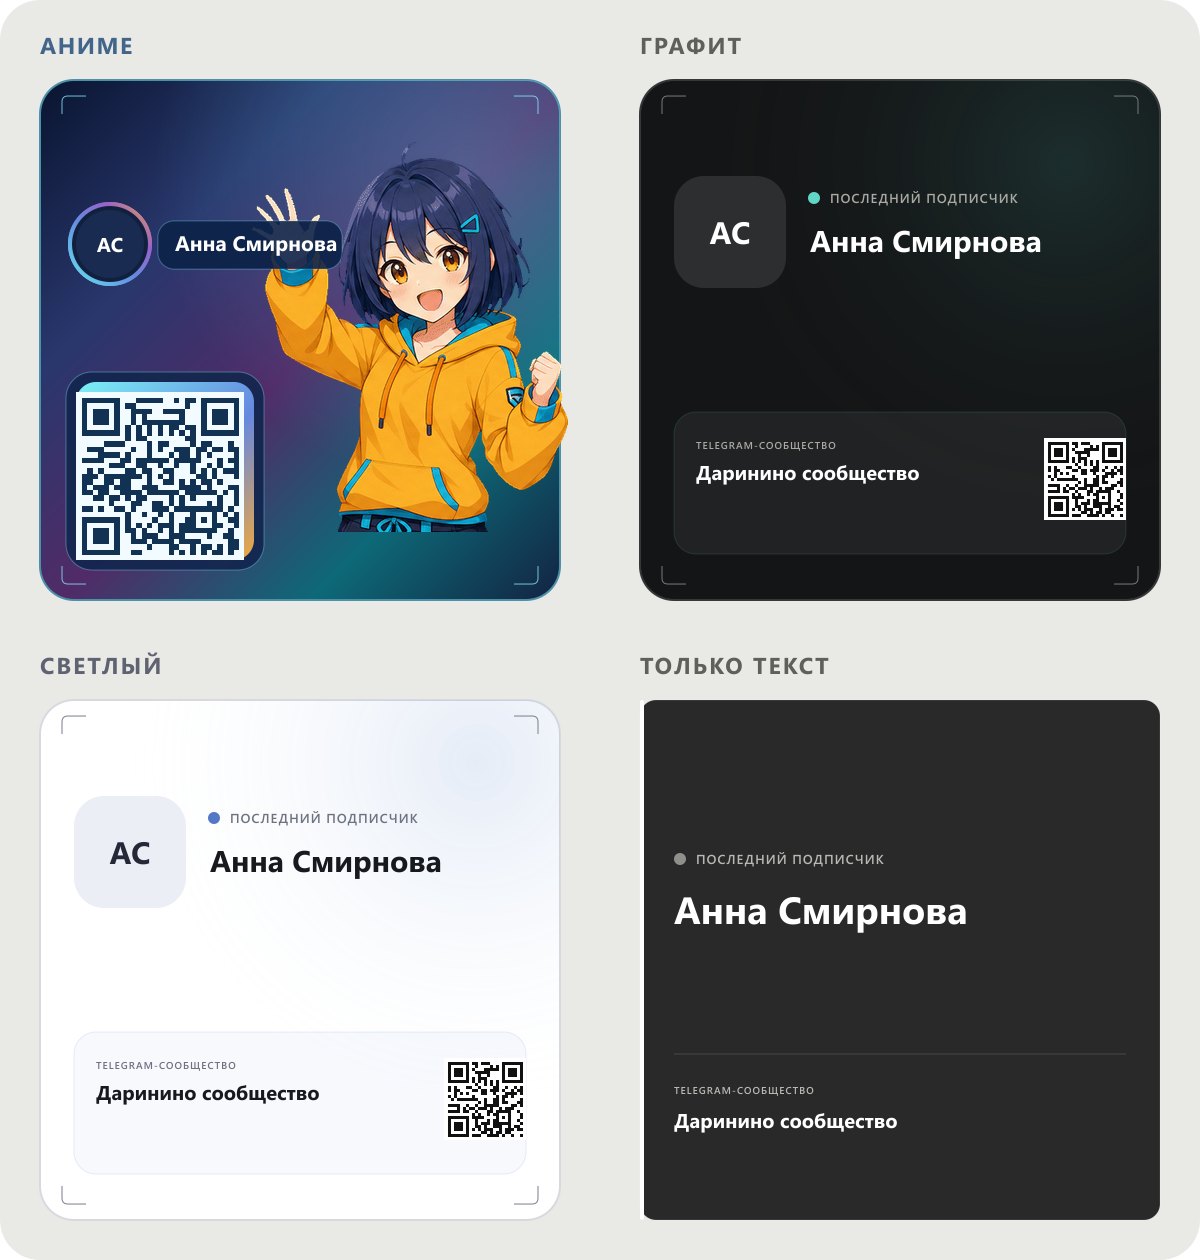
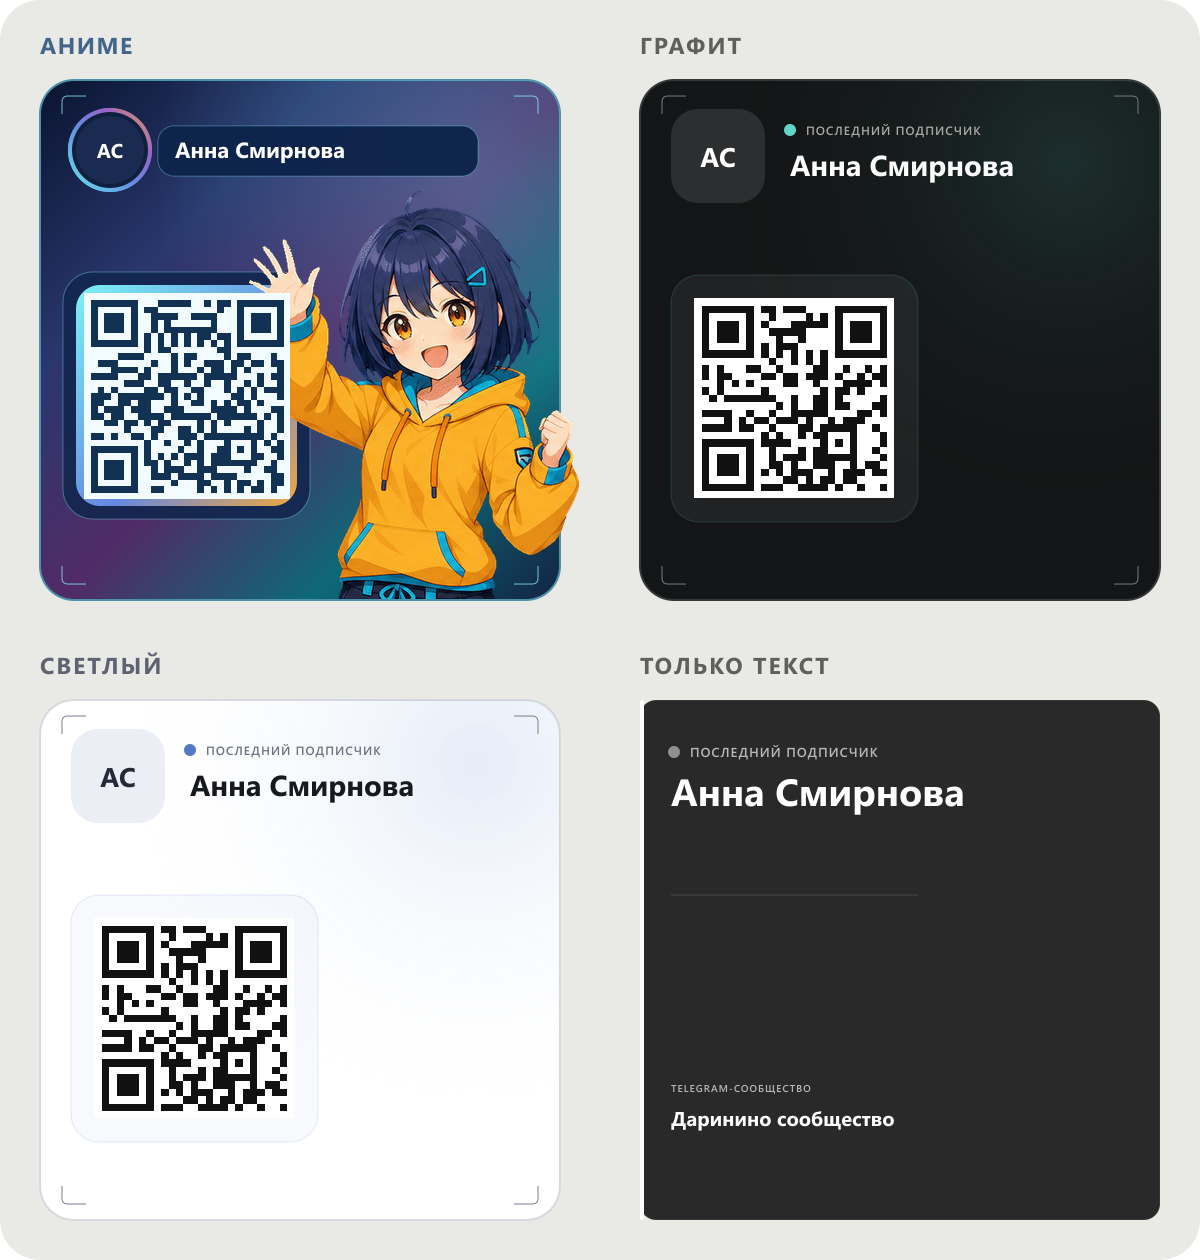
Rebalance overlay layout for OBS

diff --git a/app/globals.css b/app/globals.css
@@ -464,12 +464,10 @@ a { -webkit-tap-highlight-color: transparent; }
 
 .subscriber-card {
   position: relative;
-  display: grid;
+  display: block;
   aspect-ratio: 1;
-  grid-template-rows: minmax(0, 1fr) auto;
-  gap: 18px;
   overflow: hidden;
-  padding: 23px;
+  padding: 0;
   border: 1px solid var(--card-border);
   border-radius: 28px;
   background: var(--card-bg);
@@ -537,9 +535,13 @@ a { -webkit-tap-highlight-color: transparent; }
 }
 
 .subscriber-identity {
-  position: relative;
+  position: absolute;
   z-index: 2;
+  top: 22px;
+  left: 24px;
   display: grid;
+  width: calc(100% - 48px);
+  height: 88px;
   grid-template-columns: 88px minmax(0, 1fr);
   align-content: center;
   align-items: center;
@@ -660,16 +662,17 @@ a { -webkit-tap-highlight-color: transparent; }
 }
 
 .subscriber-name {
-  display: -webkit-box;
+  display: block;
   overflow: hidden;
   margin: 0;
   color: var(--card-ink);
-  font-size: clamp(24px, 7vw, 32px);
+  font-size: clamp(23px, 6.4vw, 29px);
   font-weight: 640;
   letter-spacing: -.035em;
   line-height: 1.02;
-  -webkit-box-orient: vertical;
-  -webkit-line-clamp: 2;
+  text-overflow: ellipsis;
+  white-space: nowrap;
+  -webkit-line-clamp: unset;
 }
 
 .subscriber-state {
@@ -678,10 +681,14 @@ a { -webkit-tap-highlight-color: transparent; }
 }
 
 .community-block {
-  position: relative;
+  position: absolute;
   z-index: 2;
+  top: 150px;
+  left: 24px;
   display: flex;
-  min-height: 98px;
+  box-sizing: border-box;
+  width: 190px;
+  height: 190px;
   align-items: center;
   justify-content: space-between;
   gap: 14px;
@@ -690,6 +697,14 @@ a { -webkit-tap-highlight-color: transparent; }
   border-radius: 18px;
   background: color-mix(in srgb, var(--card-ink) 5%, transparent);
 }
+
+.community-block.has-qr {
+  display: grid;
+  place-items: center;
+  padding: 12px;
+}
+
+.community-block.has-qr .community-copy { display: none; }
 
 .community-copy {
   display: grid;
@@ -719,11 +734,11 @@ a { -webkit-tap-highlight-color: transparent; }
 
 .community-qr {
   display: block;
-  width: 76px !important;
-  height: 76px !important;
+  width: 154px !important;
+  height: 154px !important;
   flex: 0 0 auto;
-  padding: 4px;
-  border-radius: 12px;
+  padding: 6px;
+  border-radius: 18px;
   background: var(--qr-surface);
 }
 
@@ -803,16 +818,20 @@ a { -webkit-tap-highlight-color: transparent; }
 .subscriber-wrap[data-style="mono"] .subscriber-card { border-left: 2px solid rgba(255,255,255,.86); }
 .subscriber-wrap[data-style="mono"] .subscriber-identity {
   grid-template-columns: 1fr;
-  align-content: end;
-  padding: 0 8px 10px;
+  align-content: center;
+  padding: 0 8px;
 }
 .subscriber-wrap[data-style="mono"] .avatar-shell,
 .subscriber-wrap[data-style="mono"] .community-qr,
 .subscriber-wrap[data-style="mono"] .community-copy small { display: none; }
+.subscriber-wrap[data-style="mono"] .community-block.has-qr .community-copy { display: grid; }
 .subscriber-wrap[data-style="mono"] .subscriber-name { max-width: 310px; font-size: clamp(28px, 8vw, 38px); }
 .subscriber-wrap[data-style="mono"] .community-block {
-  min-height: auto;
-  padding: 14px 16px;
+  display: flex;
+  width: 190px;
+  height: 190px;
+  align-items: flex-end;
+  padding: 18px 16px;
   border: 0;
   border-top: 1px solid rgba(255,255,255,.13);
   border-radius: 0;
@@ -865,11 +884,12 @@ a { -webkit-tap-highlight-color: transparent; }
 .subscriber-wrap[data-style="anime"] .subscriber-identity {
   position: absolute;
   z-index: 5;
-  top: 102px;
-  left: 26px;
+  top: 18px;
+  left: 20px;
   display: grid;
-  width: 268px;
-  grid-template-columns: 72px minmax(0, 184px);
+  width: 342px;
+  height: 76px;
+  grid-template-columns: 72px minmax(0, 258px);
   gap: 12px;
   align-items: center;
 }
@@ -904,7 +924,7 @@ a { -webkit-tap-highlight-color: transparent; }
   overflow: hidden;
   width: fit-content;
   min-width: 0;
-  max-width: 184px;
+  max-width: 246px;
   padding: 9px 12px 10px;
   border: 1px solid rgba(142,232,255,.18);
   border-radius: 15px;
@@ -919,7 +939,7 @@ a { -webkit-tap-highlight-color: transparent; }
   -webkit-line-clamp: unset;
 }
 .subscriber-wrap[data-style="anime"] .subscriber-name.is-short {
-  min-width: 92px;
+  min-width: 104px;
   letter-spacing: .025em;
   text-align: center;
 }
@@ -931,11 +951,11 @@ a { -webkit-tap-highlight-color: transparent; }
 .anime-mascot {
   position: absolute;
   z-index: 2;
-  top: 24px;
-  right: -18px;
+  top: 50px;
+  right: -35px;
   display: none;
-  width: 286px;
-  height: 372px;
+  width: 320px;
+  height: 350px;
   pointer-events: none;
 }
 
@@ -953,11 +973,12 @@ a { -webkit-tap-highlight-color: transparent; }
 .anime-qr {
   position: absolute;
   z-index: 4;
-  bottom: 48px;
-  left: 20px;
+  top: 148px;
+  left: 18px;
   display: grid;
-  width: 170px;
-  height: 170px;
+  box-sizing: border-box;
+  width: 190px;
+  height: 190px;
   place-items: center;
   padding: 10px;
   border: 1px solid rgba(143,235,255,.28);
@@ -983,8 +1004,8 @@ a { -webkit-tap-highlight-color: transparent; }
 }
 
 .anime-qr .community-qr {
-  width: 140px !important;
-  height: 140px !important;
+  width: 158px !important;
+  height: 158px !important;
   padding: 5px;
   border: 0;
   border-radius: 14px;
@@ -1052,12 +1073,12 @@ a { -webkit-tap-highlight-color: transparent; }
   .preview-actions { align-items: stretch; flex-direction: column; }
   .preview-note { margin: 2px 0 0; text-align: left; }
   .text-link { margin: 4px 0 0; text-align: center; }
-  .subscriber-card { padding: 19px; border-radius: 23px; }
+  .subscriber-card { padding: 0; border-radius: 28px; }
   .subscriber-identity { grid-template-columns: 74px minmax(0, 1fr); gap: 13px; }
   .avatar-shell,
   .avatar { width: 72px; height: 72px; }
-  .community-block { min-height: 88px; padding: 11px 12px; }
-  .community-qr { width: 68px !important; height: 68px !important; }
+  .community-block { min-height: 0; padding: 12px; }
+  .community-qr { width: 154px !important; height: 154px !important; }
 }
 
 /* Existing 520 × 120 Browser Sources keep a compact fallback until resized. */

diff --git a/app/overlay/page.tsx b/app/overlay/page.tsx
@@ -1,4 +1,7 @@
 import { Overlay } from "../ui/overlay";
+import type { OverlayStyle } from "../ui/types";
+
+const PREVIEW_STYLES = new Set<OverlayStyle>(["anime", "graphite", "paper", "mono"]);
 
 export default async function OverlayPage({
   searchParams,
@@ -8,6 +11,10 @@ export default async function OverlayPage({
   const params = await searchParams;
   const key = Array.isArray(params.key) ? params.key[0] : params.key;
   const name = Array.isArray(params.name) ? params.name[0] : params.name;
+  const requestedStyle = Array.isArray(params.style) ? params.style[0] : params.style;
+  const previewStyle = PREVIEW_STYLES.has(requestedStyle as OverlayStyle)
+    ? requestedStyle as OverlayStyle
+    : null;
   const requestedPhase = Array.isArray(params.phase) ? params.phase[0] : params.phase;
   const previewPhase = requestedPhase === "exit" || requestedPhase === "enter" ? requestedPhase : null;
   return (
@@ -16,6 +23,7 @@ export default async function OverlayPage({
       overlayKey={key ?? null}
       previewName={name?.slice(0, 80) ?? null}
       previewPhase={previewPhase}
+      previewStyle={previewStyle}
     />
   );
 }

diff --git a/app/ui/overlay.tsx b/app/ui/overlay.tsx
@@ -46,11 +46,13 @@ export function Overlay({
   overlayKey,
   previewName,
   previewPhase,
+  previewStyle,
 }: {
   preview: boolean;
   overlayKey: string | null;
   previewName: string | null;
   previewPhase: "exit" | "enter" | null;
+  previewStyle: OverlayStyle | null;
 }) {
   const [subscriber, setSubscriber] = useState<Subscriber | null>(
     preview ? { ...DEMO_SUBSCRIBER, name: previewName?.trim() || DEMO_SUBSCRIBER.name } : null,
@@ -61,7 +63,7 @@ export function Overlay({
   const [phase, setPhase] = useState<"idle" | "exit" | "enter">(preview && previewPhase ? previewPhase : "idle");
   const [celebrating, setCelebrating] = useState(false);
   const [queue, setQueue] = useState<Subscriber[]>([]);
-  const [style, setStyle] = useState<OverlayStyle>("anime");
+  const [style, setStyle] = useState<OverlayStyle>(preview && previewStyle ? previewStyle : "anime");
   const cursor = useRef(0);
   const initialized = useRef(false);
   const animating = useRef(false);

diff --git a/app/api/telegram/webhook/route.ts b/app/api/telegram/webhook/route.ts
@@ -173,7 +173,7 @@ async function sendInstallationPanel(chatId: number | string, installation: Stre
 async function sendStylePanel(chatId: number | string, installation: StreamerInstallation, baseUrl: string) {
   await telegramCall("sendPhoto", {
     chat_id: chatId,
-    photo: `${baseUrl}/style-preview.png?v=8`,
+    photo: `${baseUrl}/style-preview.png?v=9`,
     caption: styleCaption(installation),
     parse_mode: "HTML",
     reply_markup: styleKeyboard(installation),

diff --git a/app/ui/subscriber-card.tsx b/app/ui/subscriber-card.tsx
@@ -27,7 +27,7 @@ function QrMark({ value, themed = false }: { value: string; themed?: boolean }) 
   useEffect(() => {
     if (!canvas.current) return;
     void QRCode.toCanvas(canvas.current, value, {
-      width: themed ? 148 : 132,
+      width: themed ? 166 : 160,
       margin: 1,
       errorCorrectionLevel: themed ? "H" : "M",
       color: themed
